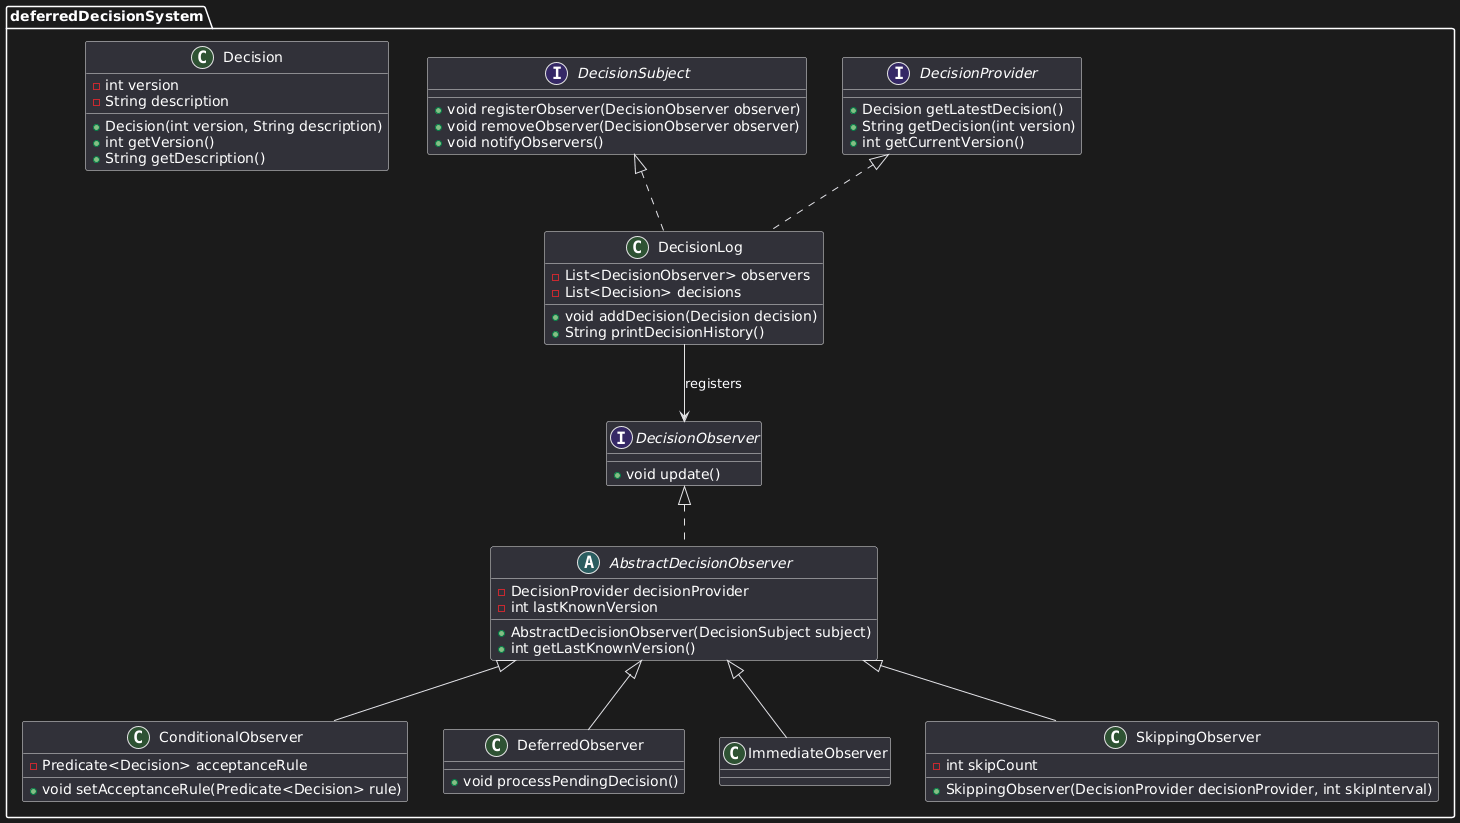
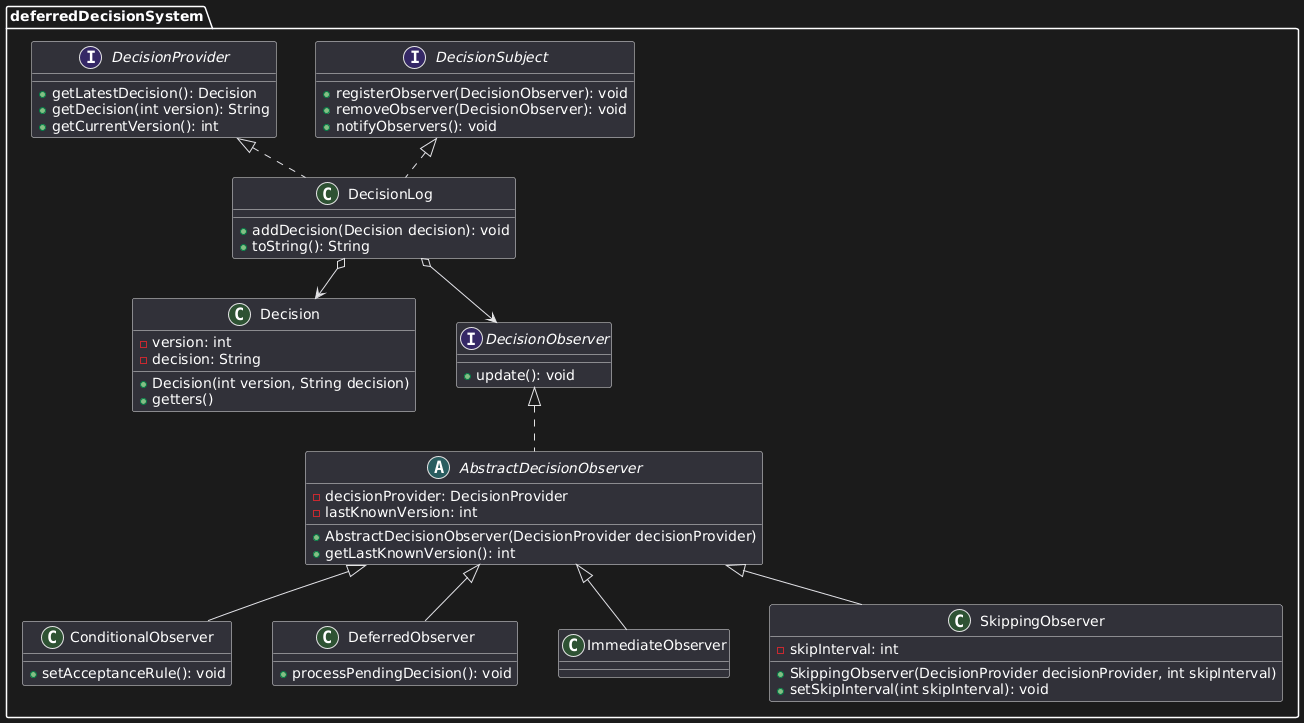
Improved code readability and fixed an error in UML diagram.

diff --git a/DesignPatterns/src/behavioral/observer/deferredDecisionSystem/defferedDecisionSystemClient/Main.java b/DesignPatterns/src/behavioral/observer/deferredDecisionSystem/defferedDecisionSystemClient/Main.java
@@ -38,7 +38,7 @@ public class Main {
 			System.out.println("DeferredObserver last known version: " + decisionObserver.getLastKnownVersion());
 			System.out.println("ImmediateObserver last known version: " + immediateObserver.getLastKnownVersion());
 			System.out.println("SkippingObserver last known version: " + skippingObserver.getLastKnownVersion());
-			System.out.println(decisionLog.printDecisionHistory());
+			System.out.println("\n" + "The decision log contains:" + "\n" + decisionLog.toString());
 			System.out.println();
 		}
 		

diff --git a/DesignPatterns/src/behavioral/observer/deferredDecisionSystem/decisionSubject/DecisionLog.java b/DesignPatterns/src/behavioral/observer/deferredDecisionSystem/decisionSubject/DecisionLog.java
@@ -80,7 +80,7 @@ public class DecisionLog implements DecisionSubject, DecisionProvider {
 	 * 
 	 * @return The decision history as a formatted string.
 	 */
-	public String printDecisionHistory() {
+	public String toString() {
 		StringBuilder sb = new StringBuilder();
 		for (Decision decision : decisionHistory) {
 			sb.append("Version ").append(decision.getVersion()).append(": ").append(decision.getDecision())
